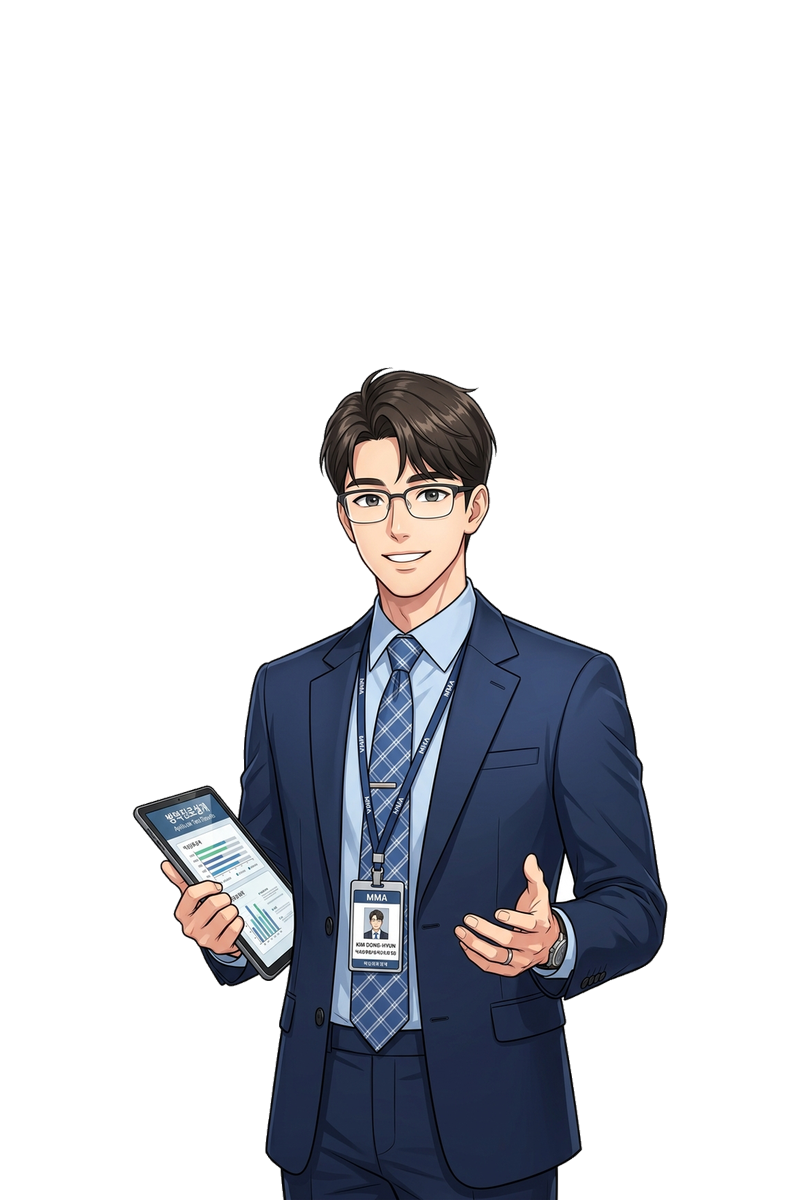
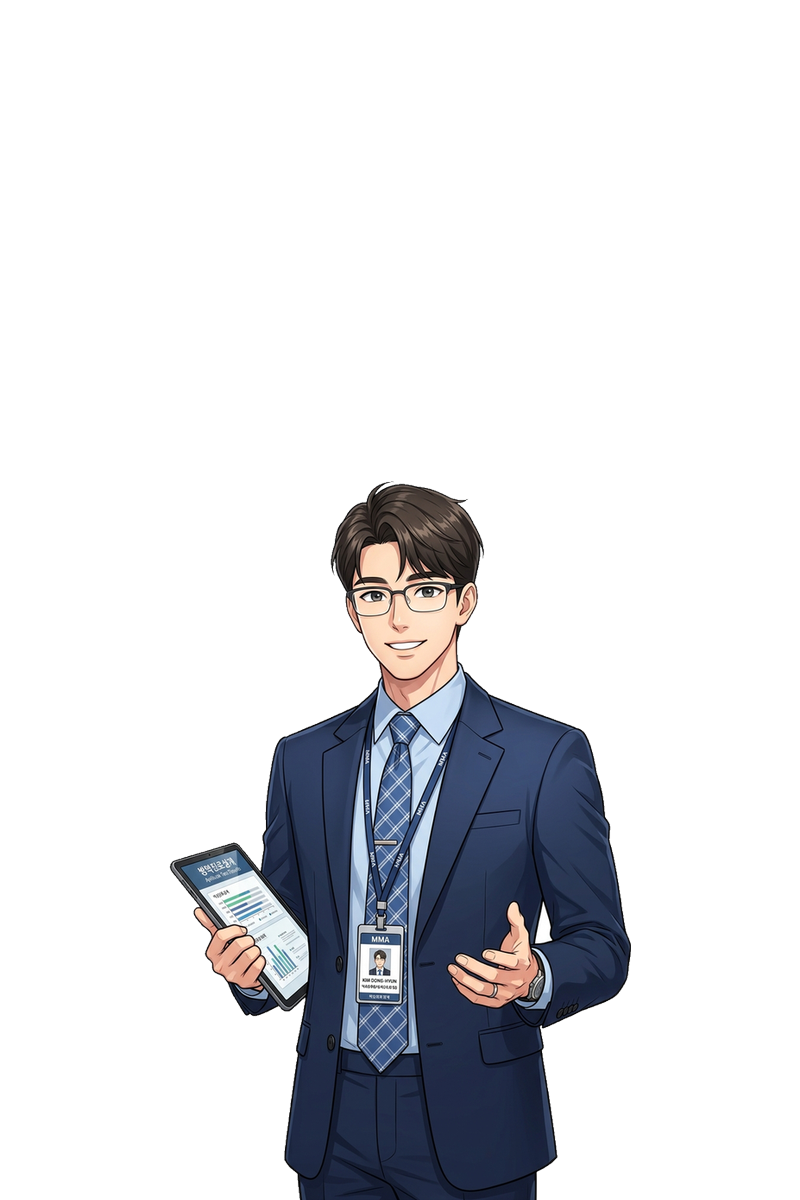
feat: v1.5.8 판올림 및 심리검사관을 비롯한 전 신체검사관 스프라이트를 주인공(민우)과 동일한 눈높이(Y:480) 및 키(719px)·중앙 정렬로 일관되게 맞춤 조정

diff --git a/index.html b/index.html
@@ -90,7 +90,7 @@
       <div class="border-l border-slate-300 pl-2 sm:pl-3 flex flex-col justify-center">
         <div class="flex items-center gap-1.5 sm:gap-2">
           <span id="top-app-title" class="text-xs sm:text-base font-extrabold tracking-tight text-slate-900 truncate max-w-[110px] sm:max-w-none">청춘의 첫 관문</span>
-          <span class="text-[10px] font-mono font-bold px-1.5 py-0.5 rounded bg-blue-100 text-blue-700 border border-blue-200 shrink-0">v1.5.7</span>
+          <span class="text-[10px] font-mono font-bold px-1.5 py-0.5 rounded bg-blue-100 text-blue-700 border border-blue-200 shrink-0">v1.5.8</span>
           <span id="autosave-toast" class="hidden sm:inline text-[10px] text-emerald-600 font-semibold bg-emerald-50 px-1.5 py-0.5 rounded border border-emerald-200 opacity-0 transition-opacity duration-300">✓ 자동저장됨</span>
         </div>
         <p id="top-step-title" class="text-[10px] sm:text-[11px] text-slate-500 font-medium truncate max-w-[130px] sm:max-w-none">STEP 1: 통지서 확인 & 스마트 일정 변경</p>
@@ -141,7 +141,7 @@
           <div class="border-l border-slate-300 pl-3">
             <div class="flex items-center gap-2">
               <h1 id="lobby-main-header-title" class="text-base sm:text-lg font-extrabold text-slate-900 tracking-tight">병무행정 비주얼노벨</h1>
-              <span class="text-[10px] font-mono font-bold px-2 py-0.5 rounded-full bg-blue-50 text-blue-600 border border-blue-200">v1.5.7</span>
+              <span class="text-[10px] font-mono font-bold px-2 py-0.5 rounded-full bg-blue-50 text-blue-600 border border-blue-200">v1.5.8</span>
             </div>
           </div>
         </div>
@@ -641,9 +641,9 @@
   </div>
 
   <!-- ================= [SCRIPT: 공공데이터 API & 대본 데이터 로드] ================= -->
-  <script src="api.js?v=20260903_v157"></script>
-  <script src="scenario.js?v=20260903_v157"></script>
-  <script src="tracker.js?v=20260903_v157"></script>
+  <script src="api.js?v=20260903_v158"></script>
+  <script src="scenario.js?v=20260903_v158"></script>
+  <script src="tracker.js?v=20260903_v158"></script>
 
   <!-- ================= [SCRIPT: 비주얼 노벨 인터랙티브 엔진] ================= -->
   <script>
